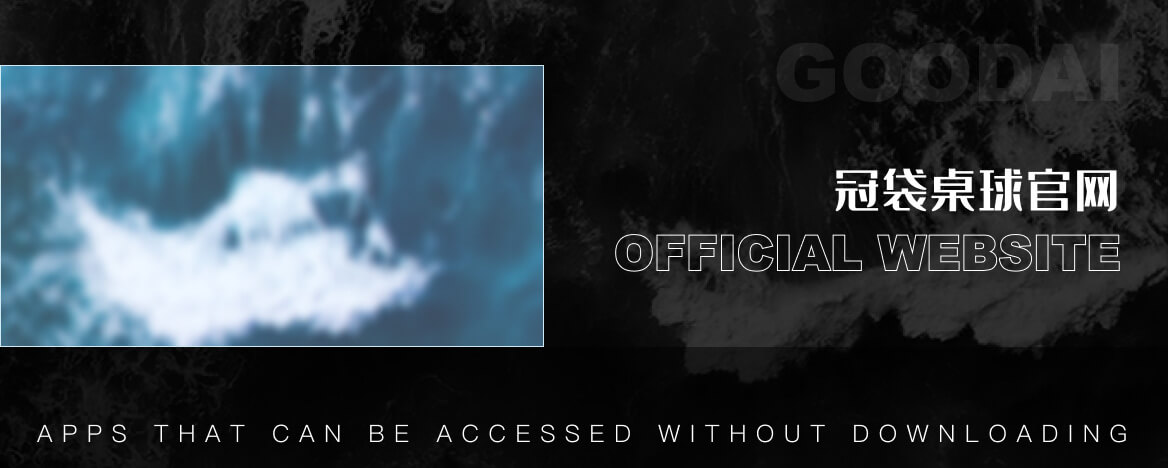
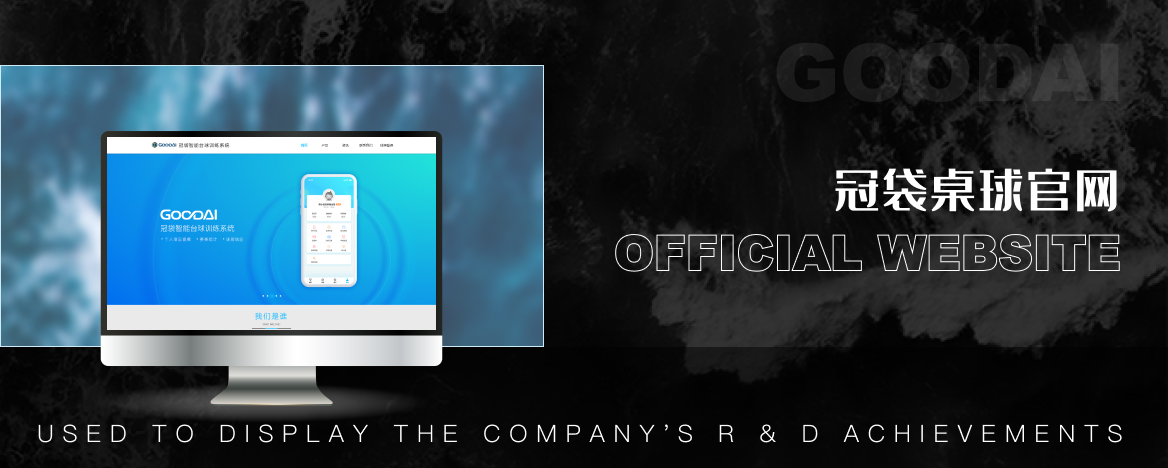
添加图片

Changed region(s): [[0.0308, 0.2692, 0.9863, 0.9573]]

diff --git a/src/views/yddh/index.vue b/src/views/yddh/index.vue
@@ -1,0 +1,31 @@
+<template>
+  <div class="yddh">
+    <img :src="`${$cdnUrl}/yddh/yddh1.jpg`" />
+    <img :src="`${$cdnUrl}/yddh/yddh2.jpg`" />
+    <img :src="`${$cdnUrl}/yddh/yddh3.jpg`" />
+    <img :src="`${$cdnUrl}/yddh/yddh4.jpg`" />
+    <img :src="`${$cdnUrl}/yddh/yddh5.jpg`" />
+    <img :src="`${$cdnUrl}/yddh/yddh6.jpg`" />
+    <img :src="`${$cdnUrl}/yddh/yddh7.jpg`" />
+    <img :src="`${$cdnUrl}/yddh/yddh8.jpg`" />
+    <img :src="`${$cdnUrl}/yddh/yddh9.jpg`" />
+    <img :src="`${$cdnUrl}/yddh/yddh10.jpg`" />
+    <img :src="`${$cdnUrl}/yddh/yddh11.jpg`" />
+    <img :src="`${$cdnUrl}/yddh/yddh12.jpg`" />
+  </div>
+</template>
+
+<script>
+export default {};
+</script>
+
+<style lang="less" scope>
+.yddh {
+  display: flex;
+  flex-direction: column;
+  width: 100%;
+  height: 100%;
+  overflow-x: hidden;
+  overflow-y: scroll;
+}
+</style>

diff --git a/src/router/index.js b/src/router/index.js
@@ -60,6 +60,11 @@ const routes = [{
     component: () => import('../views/iOOQi/index.vue')
   },
   {
+    path: '/yddh',
+    name: 'yddh',
+    component: () => import('../views/yddh/index.vue')
+  },
+  {
     path: '/wordEffect ',
     name: 'wordEffect',
     component: () => import('../views/wordEffect/index.vue')

diff --git a/src/views/home/components/project.vue b/src/views/home/components/project.vue
@@ -62,8 +62,7 @@ export default {
       this.isActive = index;
     },
     projectItemClick(name) {
-      if (name == "goodaiGw" || name == "yddh") {
-        // http://www.phelink.com/
+      if (name == "goodaiGw") {
         window.location.href = "http://www.phelink.com/";
         return false;
       }
